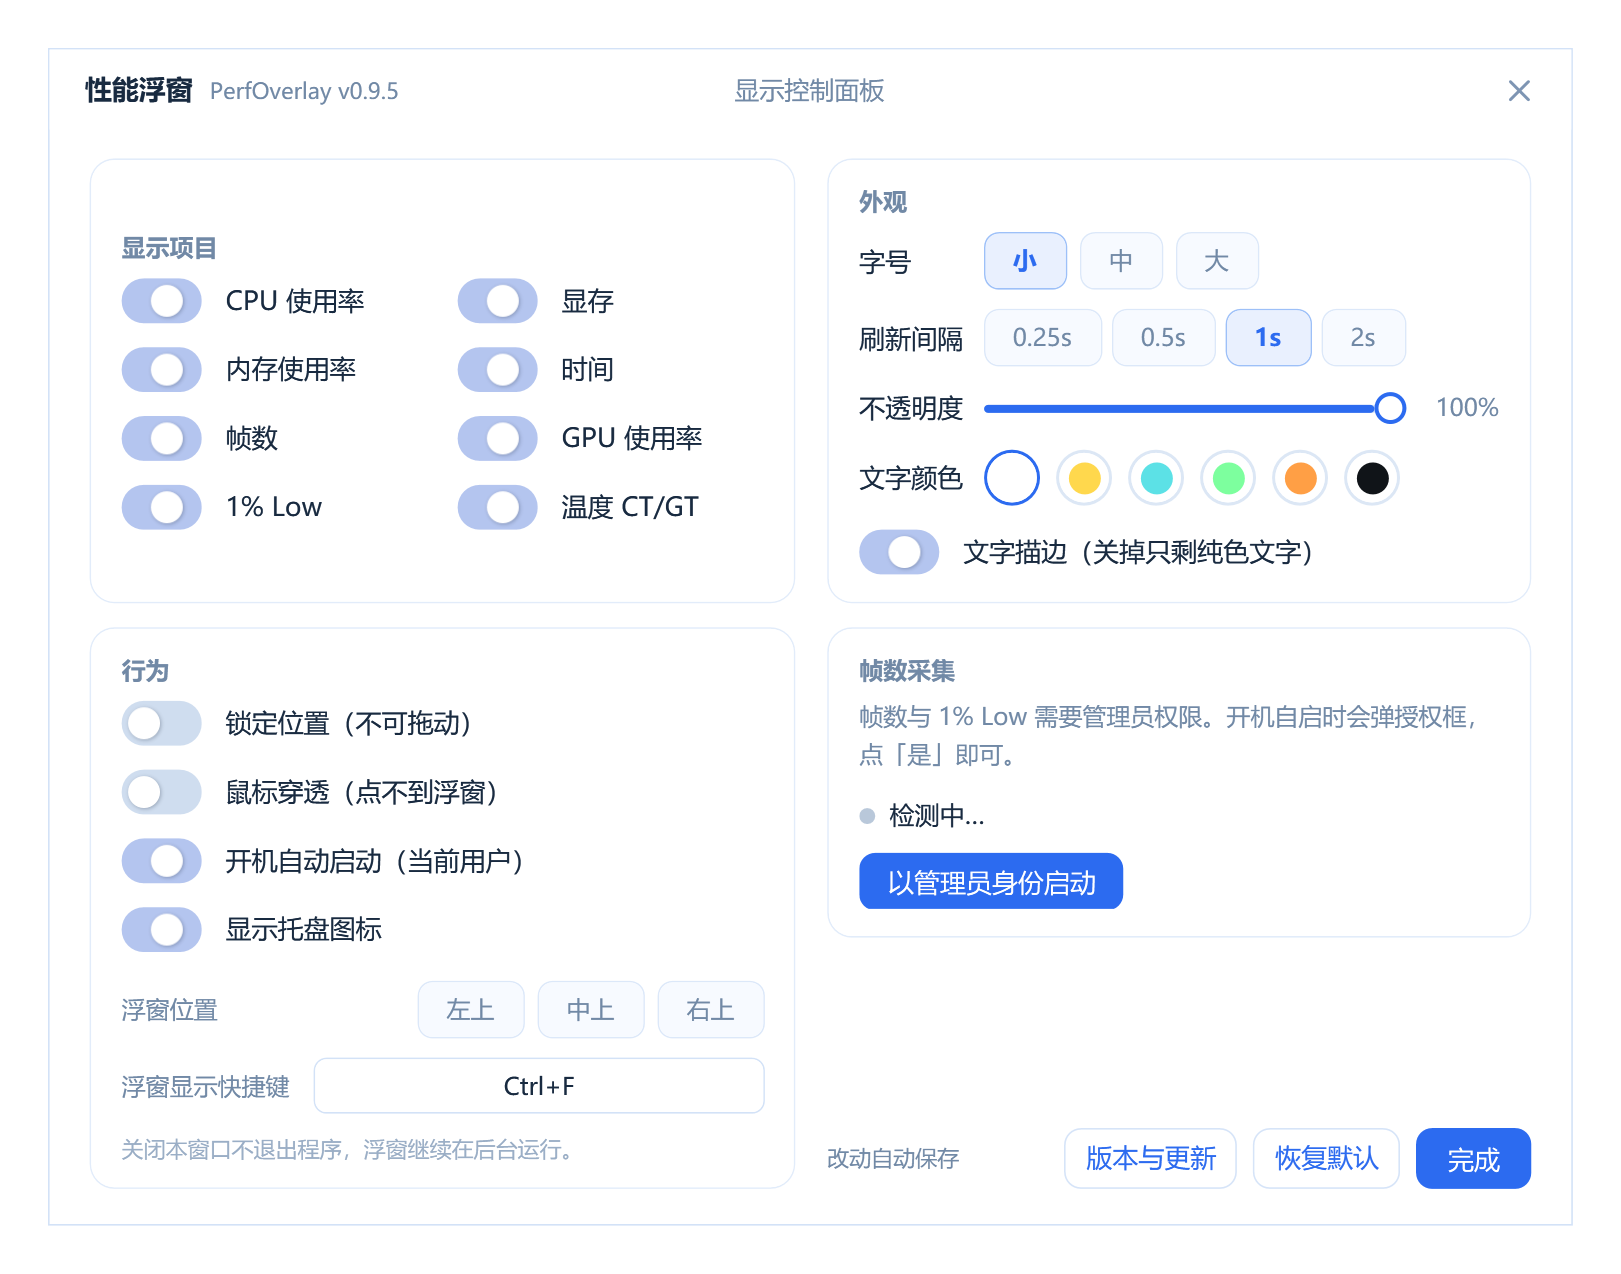
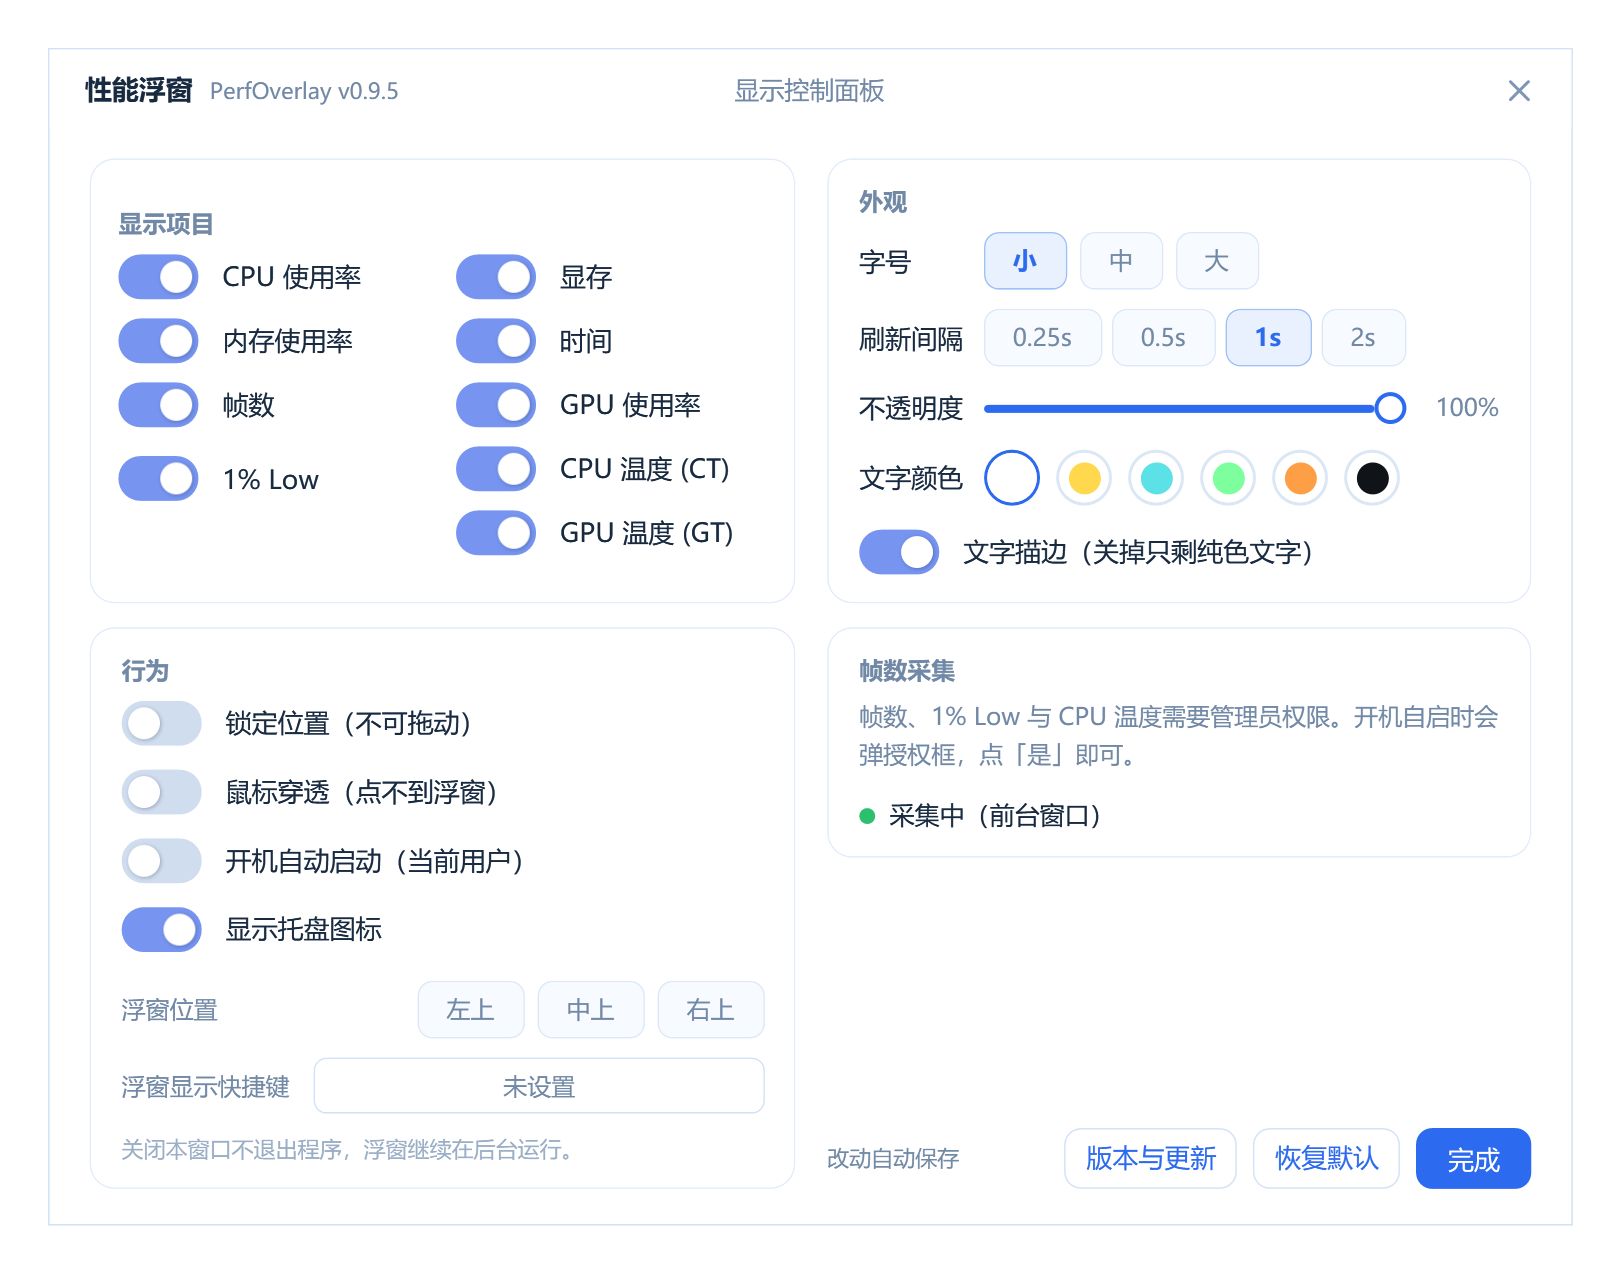
v0.9.5: 首次启动只开帧数两项
- 显示项默认值：只开 FPS 与 1% Low，CPU / 内存 / 显存 / GPU / CT / GT / 时间全部默认关闭。
  仅影响没有配置文件的机器，已有配置原样保留（反序列化不走初始化器）。
- 自检报告新增一行「显示项」，把九项默认值打出来，首启方案改动一眼可验。
- README 配图改为不读本机配置：热键、开机自启、采集状态一律固定，保证可复现，
  也避免把本机设置带进公开仓库；顺带把 CT / GT 拆分后的新面板画进图里。

diff --git a/Services/ReadmeShot.cs b/Services/ReadmeShot.cs
@@ -55,17 +55,24 @@ namespace PerfOverlay.Services
 
         // ------------------------------------------------------------------
 
-        /// <summary>浮窗：八项指标全开（配图要展示全部能力）、中等字号、默认白字带描边，填一组示例数值。</summary>
+        /// <summary>浮窗：九项指标全开（配图要展示全部能力）、中等字号、默认白字带描边，填一组示例数值。</summary>
         private static Bitmap RenderOverlay()
         {
-            var s = SettingsStore.Load();
-            s.ShowCpu = s.ShowMemory = s.ShowFps = s.ShowLowFps = s.ShowVram = true;
-            s.ShowClock = s.ShowGpu = s.ShowCpuTemp = s.ShowGpuTemp = true;
-            s.SizeMode = "M";
-            s.TextColor = "#FFFFFF";
-            s.ShowOutline = true;
-            s.Opacity = 1.0;
-            s.OffsetX = s.OffsetY = 0;
+            // 同 RenderPanel：不读本机配置，保证图可复现、不带个人痕迹。
+            var s = new AppSettings
+            {
+                ShowCpu = true, ShowMemory = true, ShowFps = true, ShowLowFps = true, ShowVram = true,
+                ShowClock = true, ShowGpu = true, ShowCpuTemp = true, ShowGpuTemp = true,
+                SizeMode = "M",
+                TextColor = "#FFFFFF",
+                ShowLabels = true,
+                ShowOutline = true,
+                Opacity = 1.0,
+                OffsetX = 0,
+                OffsetY = 0,
+                Hotkey = "",
+                FirstRunDone = true
+            };
 
             var w = new OverlayWindow();
             w.ApplySettings(s, true);
@@ -95,12 +102,31 @@ namespace PerfOverlay.Services
         /// <summary>控制面板：与用户实际打开时完全一样的视觉树（显示项全开，配图才看得出两列布局）。</summary>
         private static Bitmap RenderPanel()
         {
-            var s = SettingsStore.Load();
-            s.ShowCpu = s.ShowMemory = s.ShowFps = s.ShowLowFps = s.ShowVram = true;
-            s.ShowClock = s.ShowGpu = s.ShowCpuTemp = s.ShowGpuTemp = true;
+            // 配图必须可复现、且不带任何本机痕迹：刻意从 new AppSettings() 起，
+            // 不读 SettingsStore —— 否则用户的热键（如 Ctrl+F）、开机自启勾选、
+            // 字号档位会跟着进图，既不可复现也等于把本机配置贴到公开仓库里。
+            var s = new AppSettings
+            {
+                ShowCpu = true, ShowMemory = true, ShowFps = true, ShowLowFps = true, ShowVram = true,
+                ShowClock = true, ShowGpu = true, ShowCpuTemp = true, ShowGpuTemp = true,
+                Hotkey = "",
+                StartWithWindows = false,
+                SizeMode = "S",
+                RefreshMs = 1000,
+                TextColor = "#FFFFFF",
+                ShowLabels = true,
+                ShowOutline = true,
+                Opacity = 1.0,
+                LockPosition = false,
+                ClickThrough = false,
+                ShowTrayIcon = true,
+                OverlayVisible = true,
+                FirstRunDone = true
+            };
 
             var w = new SettingsWindow();
             w.Bind(s);
+            w.ApplyShotState(false);   // 自启关、帧采集显示正常态：图可复现且不带本机状态
             w.ShowActivated = false;
             w.Opacity = 0;
             w.MoveOffscreen();

diff --git a/Services/SelfTest.cs b/Services/SelfTest.cs
@@ -13,6 +13,8 @@ namespace PerfOverlay.Services
     /// </summary>
     public static class SelfTest
     {
+        private static string OnOff(bool v) { return v ? "开" : "关"; }
+
         /// <summary>
         /// 用已知序列验证 1% Low 的取值与算法，而不是"看着差不多"。
         /// 口径：最差 1% 帧的「平均帧时间」取倒数。
@@ -83,10 +85,16 @@ namespace PerfOverlay.Services
 
             // 0.9.5 把「温度 CT/GT」拆成两个开关：旧 settings.json 里只有 ShowTemp，
             // 迁移必须在 Load 里完成，否则老用户升级后温度会凭空消失。
-            w("--- 配置（CT / GT 拆分迁移）---");
+            // 同时把九项默认值全打出来：首启方案（只开 FPS / 1% Low）改动容易漏，留一行证据。
+            w("--- 配置（CT / GT 拆分迁移 + 首启默认值）---");
             var cfg = SettingsStore.Load();
             w(string.Format("SchemaVersion={0}  ShowCpuTemp={1}  ShowGpuTemp={2}  （旧字段 ShowTemp={3}）",
                 cfg.SchemaVersion, cfg.ShowCpuTemp, cfg.ShowGpuTemp, cfg.ShowTemp));
+            w(string.Format("显示项: CPU={0} 内存={1} FPS={2} 1%Low={3} 显存={4} GPU={5} CT={6} GT={7} 时间={8}",
+                OnOff(cfg.ShowCpu), OnOff(cfg.ShowMemory), OnOff(cfg.ShowFps), OnOff(cfg.ShowLowFps),
+                OnOff(cfg.ShowVram), OnOff(cfg.ShowGpu), OnOff(cfg.ShowCpuTemp), OnOff(cfg.ShowGpuTemp),
+                OnOff(cfg.ShowClock)));
+            w("配置来源: " + (File.Exists(SettingsStore.FilePath) ? SettingsStore.FilePath : "无配置文件（首启默认值）"));
             w("迁移结论: " + (cfg.SchemaVersion >= 1
                 ? (cfg.ShowCpuTemp || cfg.ShowGpuTemp
                     ? "OK：旧配置里开着的温度已带到 CT/GT 两项"

diff --git a/Services/AppSettings.cs b/Services/AppSettings.cs
@@ -12,11 +12,15 @@ namespace PerfOverlay.Services
     public class AppSettings
     {
         // ---- 显示项 ----
-        [DataMember(Order = 1)] public bool ShowCpu = true;
-        [DataMember(Order = 2)] public bool ShowMemory = true;
+        // 首次启动只开「帧数」两项，其余一律关。理由：这两个是核心诉求，而且
+        // 不需要驱动 / 管理员权限之外的东西就能拿到；CPU、内存、显存这些想看
+        // 自己去设置里勾，浮窗因此默认只占很短一条。
+        // 注意：仅影响「没有配置文件」的首启。反序列化不走初始化器，老配置原样保留。
+        [DataMember(Order = 1)] public bool ShowCpu = false;
+        [DataMember(Order = 2)] public bool ShowMemory = false;
         [DataMember(Order = 3)] public bool ShowFps = true;
         [DataMember(Order = 4)] public bool ShowLowFps = true;
-        [DataMember(Order = 5)] public bool ShowVram = true;
+        [DataMember(Order = 5)] public bool ShowVram = false;
 
         // 0.9.4 新增三项：默认关闭，关闭时连采样器都不初始化（不占资源）。
         // 注意 DataContractJsonSerializer 反序列化不走构造函数，缺字段时取类型默认值 false，

diff --git a/Views/SettingsWindow.xaml.cs b/Views/SettingsWindow.xaml.cs
@@ -129,6 +129,21 @@ namespace PerfOverlay.Views
             RefreshPrivilegeUi();
         }
 
+        /// <summary>
+        /// 配图专用：把面板里两处「读系统真实状态」的地方改成固定值 ——
+        /// 开机自启（注册表）与帧数采集（实时探测结果）。否则 README 截图里会带上
+        /// 本机是否已授权、是否已设自启的痕迹，而且每次生成还不一样。
+        /// 只在 ReadmeShot 里调用，正常运行路径不受影响。
+        /// </summary>
+        internal void ApplyShotState(bool startupEnabled)
+        {
+            ChkStartup.IsChecked = startupEnabled;
+
+            DotStatus.Fill = new SolidColorBrush(Color.FromRgb(0x2C, 0xBF, 0x6E));
+            TxtFrameStatus.Text = "采集中（前台窗口）";
+            BtnElevate.Visibility = Visibility.Collapsed;
+        }
+
         public void UpdateFrameStatus(MonitorHost host)
         {
             if (host == null) return;

diff --git a/README.md b/README.md
@@ -16,17 +16,18 @@
 
 | 指标 | 默认 | 说明 |
 |---|---|---|
-| CPU 利用率 | 开 | 整机占用百分比，直接读内核计数器 |
-| 内存利用率 | 开 | 整机占用百分比（悬停可看已用 / 总量） |
-| 帧数 FPS | 开 | 跟随**前台程序**的呈现帧率，1 秒统计窗 |
-| 1% Low | 开 | 最近 10 秒内最慢那 1% 帧的平均帧率，反映卡顿 |
-| 显存利用率 | 开 | 与任务管理器「专用 GPU 内存」同源，按显卡 LUID 匹配 |
+| CPU 利用率 | 关 | 整机占用百分比，直接读内核计数器 |
+| 内存利用率 | 关 | 整机占用百分比（悬停可看已用 / 总量） |
+| 帧数 FPS | **开** | 跟随**前台程序**的呈现帧率，1 秒统计窗 |
+| 1% Low | **开** | 最近 10 秒内最慢那 1% 帧的平均帧率，反映卡顿 |
+| 显存利用率 | 关 | 与任务管理器「专用 GPU 内存」同源，按显卡 LUID 匹配 |
 | GPU 利用率 | 关 | 整卡利用率，走 WDDM 引擎计数器，与任务管理器同源。**NVIDIA / AMD / Intel 通用** |
 | CT | 关 | CPU 温度。先试 ACPI 热区（零依赖）；读不到时，AMD（Zen1~Zen5）与 Intel Core 都可**一键安装**温度组件，改读寄存器（见下） |
 | GT | 关 | GPU 温度，走 WDDM 适配器性能数据。**NVIDIA / AMD 通用**，零驱动零权限 |
 | 时间 | 关 | 时:分，**固定排在最右**，前面用一条细竖线与指标隔开，不带标签 |
 
-后四项也是默认关闭：关着的时候连这些计数器都不打开，进程里不会多出句柄，取消勾选立刻释放。
+**首次启动只开「帧数 FPS」与「1% Low」两项**，其余全部关闭 —— 浮窗默认就是很短一条。
+没勾的项连计数器都不打开，进程里不会多出句柄，取消勾选立刻释放。
 
 **外观**
 
